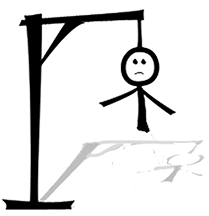
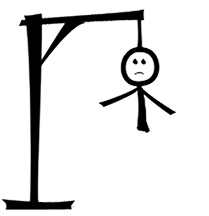
New Images Gallows

diff --git a/resources/views/components/modal.blade.php b/resources/views/components/modal.blade.php
@@ -11,52 +11,61 @@
 <div class="absolute left-0 right-0 flex items-center justify-center p-2 md:top-16">
     <div class="flex flex-col items-center justify-center w-4/5 p-8 bg-black rounded-lg md:w-1/2 md:justify-normal md:items-stretch">
 
-        <div class="flex items-center justify-start">
-            @if ($win)
-                <h1 class="text-3xl font-extrabold">Parabéns, você venceu!</h1>
-            @else
-                <h1 class="text-3xl font-extrabold">Não foi dessa vez, mas jamais desista!</h1>
+        <div class="flex flex-col items-center justify-between gap-2 xl:flex-row">
+            <div class="flex flex-col">
+                <div class="flex items-center justify-start">
+                    @if ($win)
+                        <h1 class="text-3xl font-extrabold">Parabéns, você venceu!</h1>
+                    @else
+                        <h1 class="text-3xl font-extrabold">Não foi dessa vez, mas jamais desista!</h1>
+                    @endif
+                </div>
+
+                <div class="flex flex-col items-center justify-center mt-10 mb-5 xl:justify-start xl:items-start">
+                    <h1 class="mb-4 text-4xl font-semibold">A palavra é:</h1>
+                    <div
+                        class="grid grid-cols-2 gap-6 text-2xl xl:text-4xl font-extrabold uppercase @if ($win) text-[#02e659a5] @else text-[#FF3C3C] @endif">
+                        <h1>{{ $word1 }}</h1>
+                        <h1>{{ $word2 }}</h1>
+                        <h1>{{ $word3 }}</h1>
+                        <h1>{{ $word4 }}</h1>
+                    </div>
+                </div>
+
+                @if (count($errorLetters) > 0)
+                    <div class="flex flex-col items-start justify-start mt-10">
+                        <h1 class="text-lg">Letras erradas:</h1>
+                        <div class="flex flex-wrap items-center justify-center">
+                            @foreach (array_unique($errorLetters) as $errorLetter)
+                                <div
+                                    class="flex items-center justify-center w-8 h-8 text-xl text-center text-white uppercase bg-[#FF3C3C] border border-black rounded-md xl:h-12 xl:w-12">
+                                    {{ $errorLetter }}
+                                </div>
+                            @endforeach
+                        </div>
+                    </div>
+                @endif
+
+                @if (count($correctLetters) > 0)
+                    <div class="flex flex-col items-start justify-start mt-10">
+                        <h1 class="text-lg">Letras corretas:</h1>
+                        <div class="flex flex-wrap items-center justify-center">
+                            @foreach (array_unique($correctLetters) as $currectLetter)
+                                @if ($currectLetter != '-' && $currectLetter != "'")
+                                    <div
+                                        class="flex items-center justify-center w-8 h-8 text-xl text-center text-white uppercase border border-black bg-[#02e659a5] rounded-md xl:h-12 xl:w-12">
+                                        {{ $currectLetter }}
+                                    </div>
+                                @endif
+                            @endforeach
+                        </div>
+                    </div>
+                @endif
+            </div>
+            @if (!$win)
+                <img src="{{ asset('images/6.png') }}" alt="Gallows image game" class="w-36 2xl:w-48">
             @endif
         </div>
-
-        <div class="flex flex-col items-center justify-center mt-10 mb-5 xl:justify-start xl:items-start">
-            <h1 class="mb-4 text-4xl font-semibold">A palavra é:</h1>
-            <div class="grid grid-cols-2 gap-6 text-2xl xl:text-4xl font-extrabold uppercase @if ($win) text-[#02e659a5] @else text-[#FF3C3C] @endif">
-                <h1>{{ $word1 }}</h1>
-                <h1>{{ $word2 }}</h1>
-                <h1>{{ $word3 }}</h1>
-                <h1>{{ $word4 }}</h1>
-            </div>
-        </div>
-
-        @if (count($errorLetters) > 0)
-            <div class="flex flex-col items-start justify-start mt-10">
-                <h1 class="text-lg">Letras erradas:</h1>
-                <div class="flex flex-wrap items-center justify-center">
-                    @foreach (array_unique($errorLetters) as $errorLetter)
-                        <div
-                            class="flex items-center justify-center w-8 h-8 text-xl text-center text-white uppercase bg-[#FF3C3C] border border-black rounded-md xl:h-12 xl:w-12">
-                            {{ $errorLetter }}
-                        </div>
-                    @endforeach
-                </div>
-            </div>
-        @endif
-
-        @if (count($correctLetters) > 0)
-            <div class="flex flex-col items-start justify-start mt-10">
-                <h1 class="text-lg">Letras corretas:</h1>
-                <div class="flex flex-wrap items-center justify-center">
-                    @foreach (array_unique($correctLetters) as $currectLetter)
-                        @if ($currectLetter != '-' && $currectLetter != "'")
-                            <div class="flex items-center justify-center w-8 h-8 text-xl text-center text-white uppercase border border-black bg-[#02e659a5] rounded-md xl:h-12 xl:w-12">
-                                {{ $currectLetter }}
-                            </div>
-                        @endif
-                    @endforeach
-                </div>
-            </div>
-        @endif
 
         <div class="flex flex-col items-center justify-center gap-4 mt-10 md:justify-start md:items-start">
             <p>
@@ -64,9 +73,12 @@
             </p>
 
             <div class="flex flex-col items-center justify-center w-full gap-4 xl:flex-row">
-                <a href="{{ route('gallows') }}" wire:navigate class="w-full px-4 py-2 text-xs font-semibold tracking-widest text-white uppercase transition duration-150 ease-in-out border border-transparent rounded-md inline-flex bg-[#02e659a5] hover:bg-[#02e659be] focus:bg-[#02e659a5] focus:outline-none focus:ring-2 focus:ring-offset-2 focus:ring-offset-gray-800 justify-center items-center">Gallows</a>
-                <a href="{{ route('gallows.duo') }}" wire:navigate class="w-full px-4 py-2 text-xs font-semibold tracking-widest text-white uppercase transition duration-150 ease-in-out border border-transparent rounded-md inline-flex bg-[#02e659a5] hover:bg-[#02e659be] focus:bg-[#02e659a5] focus:outline-none focus:ring-2 focus:ring-offset-2 focus:ring-offset-gray-800 justify-center items-center">DuoGallows</a>
-                <a href="{{ route('gallows.quadra') }}" wire:navigate class="w-full px-4 py-2 text-xs font-semibold tracking-widest text-white uppercase transition duration-150 ease-in-out border border-transparent rounded-md inline-flex bg-[#02e659a5] hover:bg-[#02e659be] focus:bg-[#02e659a5] focus:outline-none focus:ring-2 focus:ring-offset-2 focus:ring-offset-gray-800 justify-center items-center">QuadraGallows</a>
+                <a href="{{ route('gallows') }}" wire:navigate
+                    class="w-full px-4 py-2 text-xs font-semibold tracking-widest text-white uppercase transition duration-150 ease-in-out border border-transparent rounded-md inline-flex bg-[#02e659a5] hover:bg-[#02e659be] focus:bg-[#02e659a5] focus:outline-none focus:ring-2 focus:ring-offset-2 focus:ring-offset-gray-800 justify-center items-center">Gallows</a>
+                <a href="{{ route('gallows.duo') }}" wire:navigate
+                    class="w-full px-4 py-2 text-xs font-semibold tracking-widest text-white uppercase transition duration-150 ease-in-out border border-transparent rounded-md inline-flex bg-[#02e659a5] hover:bg-[#02e659be] focus:bg-[#02e659a5] focus:outline-none focus:ring-2 focus:ring-offset-2 focus:ring-offset-gray-800 justify-center items-center">DuoGallows</a>
+                <a href="{{ route('gallows.quadra') }}" wire:navigate
+                    class="w-full px-4 py-2 text-xs font-semibold tracking-widest text-white uppercase transition duration-150 ease-in-out border border-transparent rounded-md inline-flex bg-[#02e659a5] hover:bg-[#02e659be] focus:bg-[#02e659a5] focus:outline-none focus:ring-2 focus:ring-offset-2 focus:ring-offset-gray-800 justify-center items-center">QuadraGallows</a>
             </div>
         </div>
     </div>
